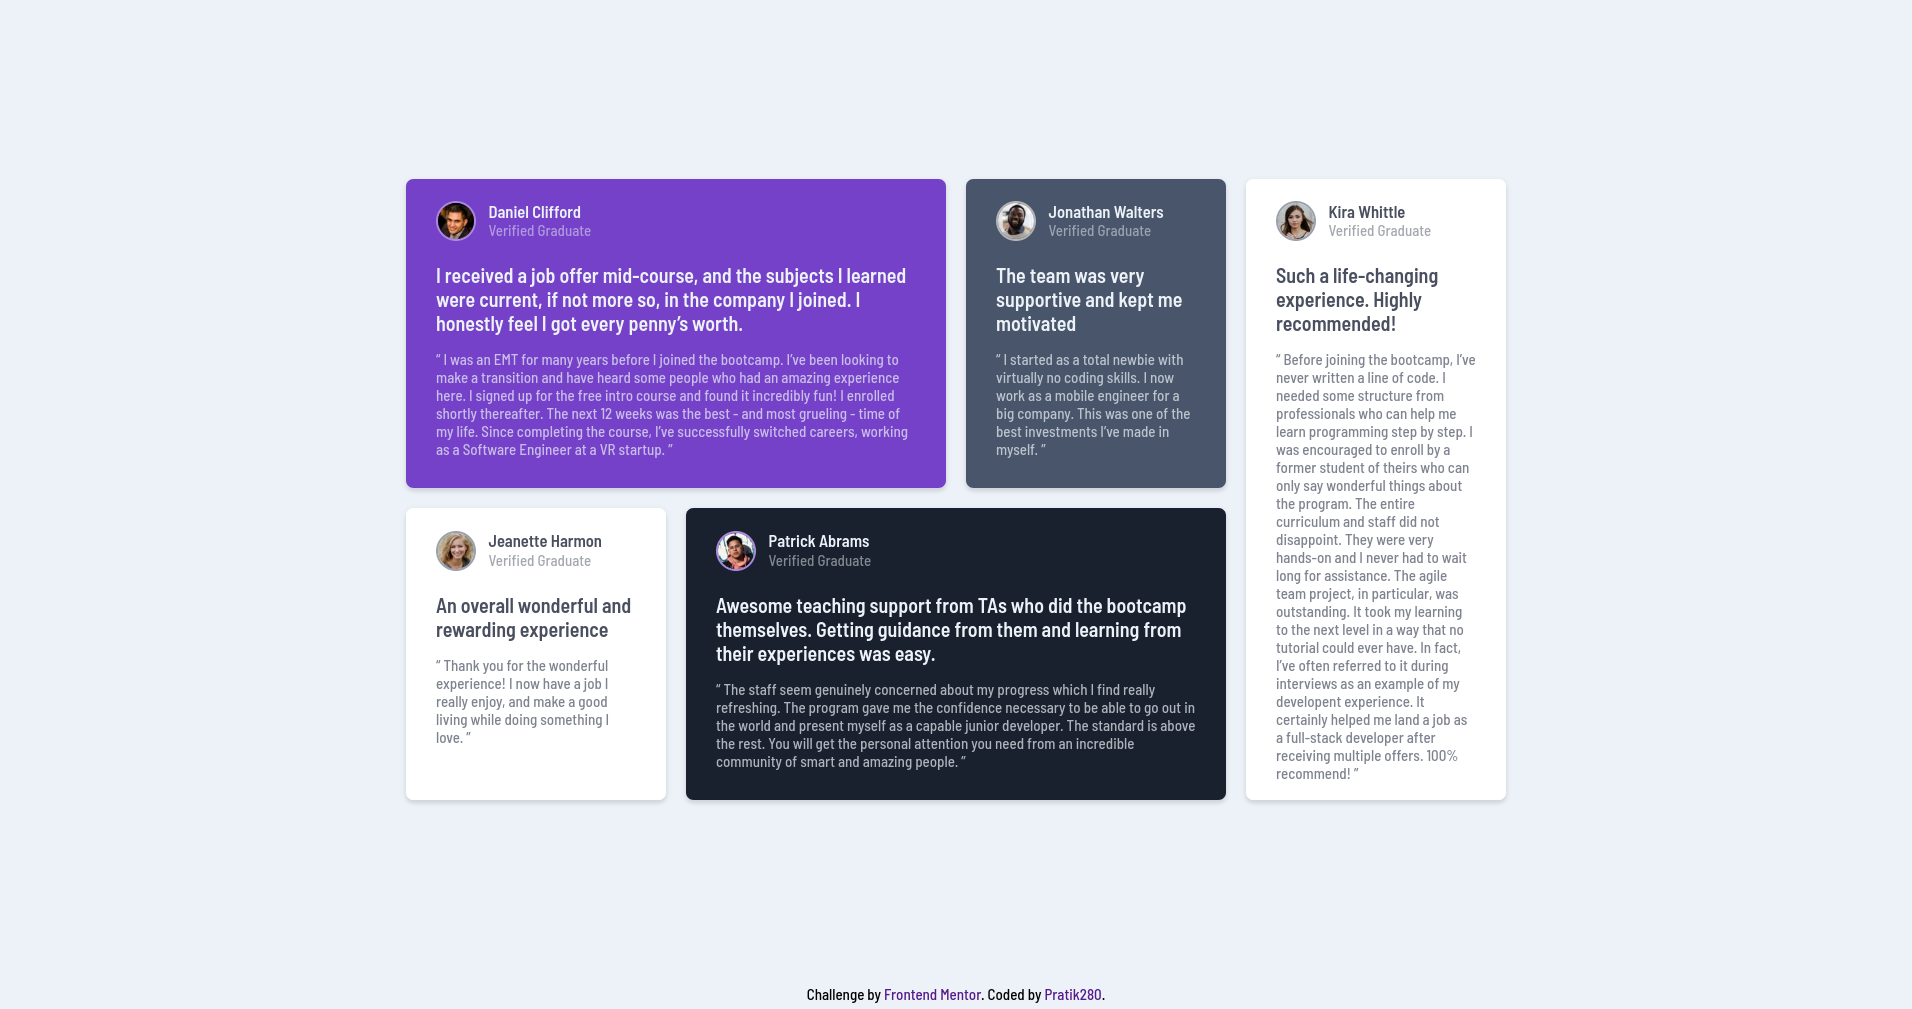
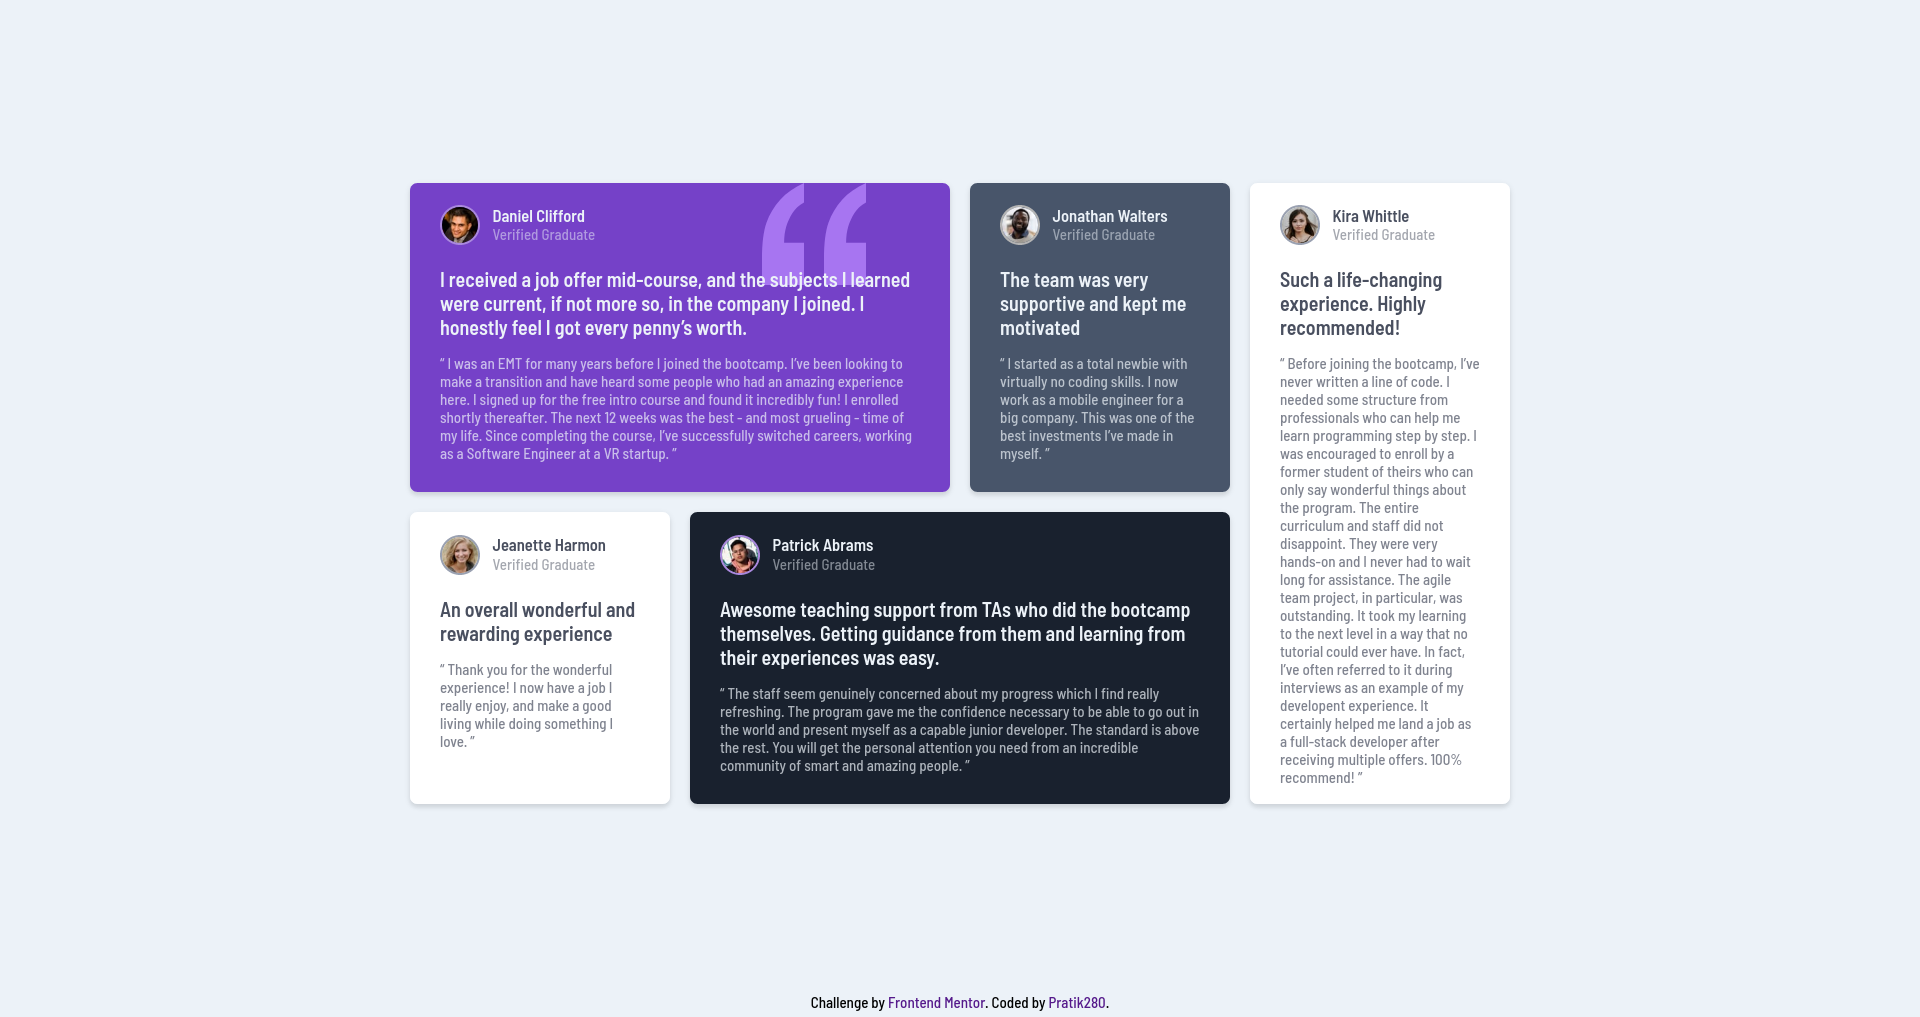
added quote image

diff --git a/index.html b/index.html
@@ -17,6 +17,7 @@
     <main class="container flex-center">
       <div class="wrapper">
         <section class="one bg-primary-one">
+          <img class="quote-img" src="assets/images/bg-pattern-quotation.svg" alt="">
           <header>
             <figure>
               <img class="profile-img br-light-purple" src="assets/images/image-daniel.jpg" alt="Profile image of daniel">
@@ -26,7 +27,7 @@
               <h2 class="fw-500 fs-400 fc-secondary-one-op-50">Verified Graduate</h2>
             </div>
           </header>
-          <h3 class="fw-600 fs-700 fc-secondary-one">I received a job offer mid-course, and the subjects I learned were current, if not more so, in the company I joined. I honestly feel I got every penny’s worth.</h3>
+          <h3 class="quote-text fw-600 fs-700 fc-secondary-one">I received a job offer mid-course, and the subjects I learned were current, if not more so, in the company I joined. I honestly feel I got every penny’s worth.</h3>
           <p class="fw-500 fs-400 fc-secondary-one-op-70">“ I was an EMT for many years before I joined the bootcamp. I’ve been looking to make a transition and have heard some people who had an amazing experience here. I signed up for the free intro course and found it incredibly fun! I enrolled shortly thereafter.  The next 12 weeks was the best - and most grueling - time of my life. Since completing the course, I’ve successfully switched careers, working as a Software Engineer at a VR startup. ”</p>
         </section>
 

diff --git a/styles/main.css b/styles/main.css
@@ -1,10 +1,3 @@
-/*
-TODO:
-figure
-inner padding margin
-box shadow
-autofill
-*/
 @import "default.css";
 
 /* ==== MAIN LAYOUT ==== */
@@ -115,3 +108,18 @@ section p{
   padding-bottom: 1.75rem;
 }
 
+.one {
+  position: relative;
+}
+
+.one h3{
+  position: relative;
+  z-index: 2;
+}
+
+.quote-img{
+  position: absolute;
+  top: 0;
+  right: 10%;
+  z-index: 1;
+}
